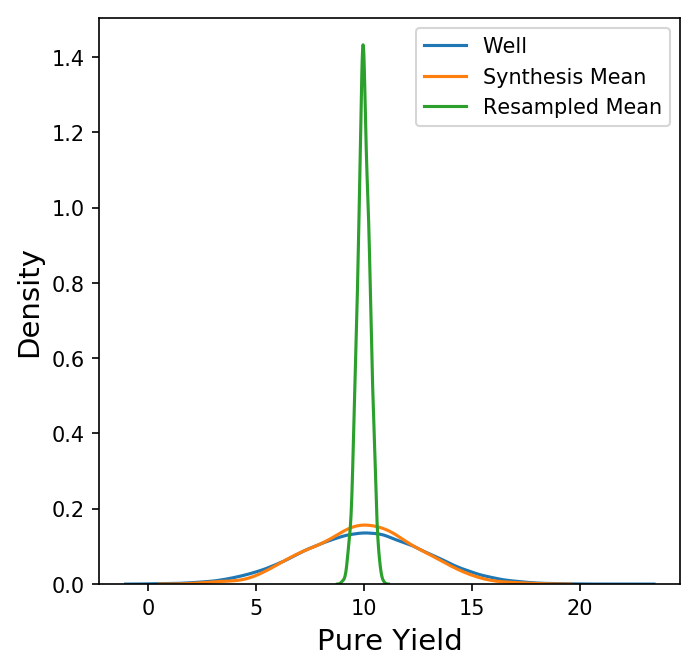
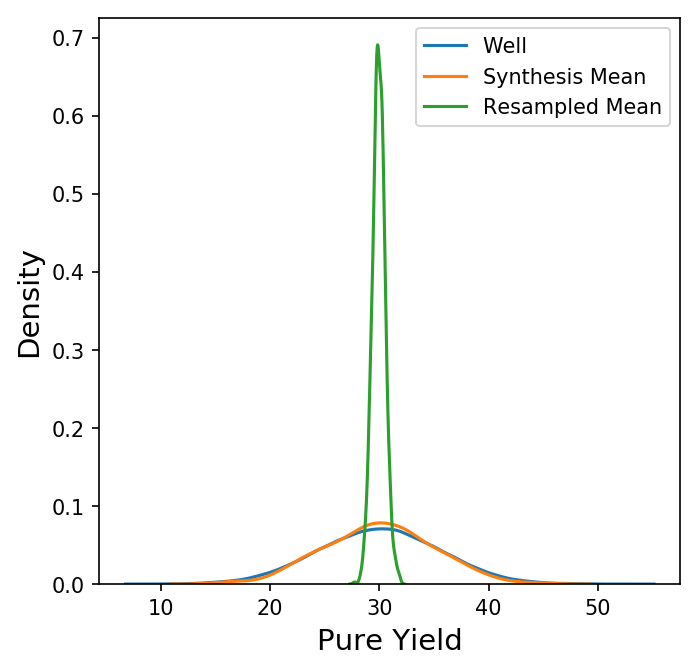
add new post!

diff --git a/content/ExperimentalDesignSampling.md b/content/ExperimentalDesignSampling.md
@@ -1,8 +1,7 @@
 Title: Independence and sampling in experimental design
-Date: 2018-12-26
+Date: 2019-01-02
 Category: Projects
 Authors: Aaron Wiegel
-Status: draft
 
 # Overview
 
@@ -10,7 +9,7 @@ Regardless of the application, calculating a particular statistic and associated
 
 In this blog post, I discuss independence, sampling, and experimental design in the context of my work as a data scientist at Synthego, a biotech manufacturing company. I use a simulated, clean, and simplified data set with features similar to our manufacturing data to demonstrate fundamental statistical concepts and challenges in experimental design. Although the context is chemistry and manufacturing, the core concepts are highly relevant in other contexts, such as designing an A/B testing framework.
 
-The data used in this blog post and the associated code are available via Github.
+The data used in this blog post and the associated code are available via [Github](https://github.com/aawiegel/PowerSimulationDemo).
 
 # Introduction
 
@@ -36,7 +35,7 @@ where the 8 rows correspond to the letters A through H, and the 12 columns corre
 
 ## Data definitions
 
-Synthetic (see what I did there), simplified, and clean data was randomly generated for the purposes of this blog post. Keep in mind that the real data from Synthego's manufacturing process (or from anything else for that matter) will not nearly be as clean or have as clear behavior as this. One thousand syntheses with 96 wells each were simulated to create a 960,000 row data set. The data contains several fields describing the amount and purity of the material and synthesis metadata. In the actual manufacturing process, impurities are measured with mass spectrometry and an algorithm that fits known and unknown impurity mass peaks in a spectrum. Common impurities include sequences with one extra or missing nucleotide (base) or with poor purification or post-processing.
+Synthetic (see what I did there), simplified, and clean data was randomly generated for the purposes of this blog post. Keep in mind that the real data from Synthego's manufacturing process (or from anything else for that matter) will not nearly be as clean or have as clear behavior as this. One thousand syntheses with 96 wells each were simulated to create a 96,000 row data set. The data contains several fields describing the amount and purity of the material and synthesis metadata. In the actual manufacturing process, impurities are measured with mass spectrometry and an algorithm that fits known and unknown impurity mass peaks in a spectrum. Common impurities include sequences with one extra or missing nucleotide (base) or with poor purification or post-processing.
 
 ### Metadata
 
@@ -82,7 +81,7 @@ plt.show()
 
 The distribution for the pure yield is pretty clearly normally distributed from this plot (The fit to the normal distribution almost entirely overlaps with the KDE plot.)
 
-We can use this same code snippet (rewritten as a function in the code on Github) to generate distribution plots for each of our metrics described above:
+We can use this same code snippet (rewritten as a function in the code on [Github](https://github.com/aawiegel/PowerSimulationDemo)) to generate distribution plots for each of our metrics described above:
 
 <img src="{static}/images/well_full_length_product.png" alt="Distribution of the full length product" style="width: 100%;"/>
 
@@ -163,12 +162,12 @@ Why do we see a much narrower distribution for a random sample of 96 wells versu
  
  Therefore, a random sample of 96 wells should have a standard deviation equal to the population standard deviation divided by the square root of 96. Let's compare the standard deviation for the entire population of wells, synthesis means, random sample means, and predictions of the Central Limit Theorem.
  
- | Group             | Mean  | Standard Deviation |
- | ----------------- | ----- | ------------------ |
- | Well (Population) | 9.976 | 2.922              |
- | Synthesis         | 9.976 | 2.513              |
- | Random Sample     | 9.981 | 0.291              |
- | Predicted         | 9.976 | 0.298              |
+ | Group             | Mean   | Standard Deviation |
+ | ----------------- | ------ | ------------------ |
+ | Well (Population) | 29.953 | 5.605              |
+ | Synthesis         | 29.953 | 5.025              |
+ | Random Sample     | 29.944 | 0.582              |
+ | Predicted         | 29.953 | 0.572              |
  
  Clearly, the random sample matches our predictions from the Central Limit Theorem, and the 96 wells on an individual synthesis are not random samples from the larger population of wells. We can see this another way by comparing the means between arbitrary subsets of a synthesis or random sample. In this case, I just compared the mean for wells on the left half of the 96-well plate to the mean for wells on the right half of the 96-well plate for a synthesis or random sample. For 96-well random samples, we see almost no correlation between the means from each side as shown below:
  
@@ -184,6 +183,10 @@ Thus, the wells on a synthesis are not independent units but are actually interd
 
 OK, so what? Sure, the Central Limit Theorem, sampling, independence, and all that are interesting in an abstract sense, but how does this help design better experiments? Well, if we're not careful about randomization in our experimental design, we could end up with spurious results! 
 
+<img src="https://imgs.xkcd.com/comics/significant.png" style="width: 80%" />
+
+One unfortunately common type of bad experimental design. (Credit: [XKCD](https://xkcd.com/882/))
+
 For example, let's suppose we are testing whether some new process change has a positive effect on pure yield. Our null and alternative hypotheses would then be the following:
 
 $H_0: \text{pure yield}_{\text{new}} = \text{pure yield}_{\text{old}}$
@@ -192,10 +195,10 @@ $H_a: \text{pure yield}_{\text{new}} > \text{pure yield}_{\text{old}}$
 
 We then run a single control synthesis with our old process and a single treatment synthesis with our new process and get the following results:
 
-| Synthesis ID | Experimental Group | Mean   | Standard Deviation |
-| ------------ | ------------------ | ------ | ------------------ |
-| 3            | Control            | 8.211  | 1.399              |
-| 4            | Treatment          | 13.314 | 1.554              |
+| Synthesis ID | Experimental Group | Mean    | Standard Deviation |
+| ------------ | ------------------ | ------- | ------------------ |
+| 3            | Control            | 26.431  | 2.331              |
+| 4            | Treatment          | 36.597  | 2.590              |
 
 Looks promising, right? We then naively assume that each well is independent and that a synthesis is a random sample of 96 wells. We perform a _t_-test with our experimental results and those assumptions as shown below:
 ```python
@@ -207,23 +210,23 @@ treatment_mask = df.synthesis_id == 4
 t_test_results = scipy.stats.ttest_ind(df.loc[treatment_mask, 'pure_yield'], 
                                        df.loc[control_mask, 'pure_yield']) 
 print(t_test_results)
-# Output: Ttest_indResult(statistic=21.579125882009635, pvalue=5.402301203063555e-53) 
+# Output: Ttest_indResult(statistic=28.581, pvalue=1.014e-70) 
 ``` 
  
-Whoa, our _t_-statistic is 23.9 with a _p_-value of $3 \times 10^{-59}$; we should definitely reject the null hypothesis. Clearly, our new process change is amazing, and we're super geniuses for thinking of it. Is that really true, though?
+Whoa, our _t_-statistic is 28.6 with a _p_-value of $1 \times 10^{-70}$; we should definitely reject the null hypothesis. Clearly, our new process change is amazing, and we're super geniuses for thinking of it. Is that really true, though?
 
 Unfortunately, one of the key assumptions of the _t_ test is that the samples have been randomly drawn from the larger population. As we discussed earlier, a synthesis is not a random sample of 96 wells, though! So, our new process change might be amazing, but we don't have enough evidence of that yet. (Whether we're super geniuses also remains to be seen.) Realizing this, we perform several more syntheses to test our new process change:
 
 | Synthesis ID | Experimental Group | Mean   | Standard Deviation |
 | ------------ | ------------------ | ------ | ------------------ |
-| 3            | Control            | 8.211  | 1.399              |
-| 4            | Treatment          | 13.314 | 1.554              |
-| 5            | Control            | 6.607  | 1.603              |
-| 6            | Treatment          | 8.603  | 1.571              |
-| 7            | Control            | 11.220 | 1.255              |
-| 8            | Treatment          | 9.755  | 1.465              |
-| 9            | Control            | 14.086 | 1.485              |
-| 10           | Treatment          | 10.249 | 1.545              |
+| 3            | Control            | 26.431 | 2.331              |
+| 4            | Treatment          | 36.597 | 2.590              |
+| 5            | Control            | 23.218 | 2.671              |
+| 6            | Treatment          | 27.248 | 2.619              |
+| 7            | Control            | 32.588 | 2.091              |
+| 8            | Treatment          | 29.525 | 2.442              |
+| 9            | Control            | 38.142 | 2.475              |
+| 10           | Treatment          | 30.541 | 2.576              |
 
 We then run our _t_-test again, this time using the synthesis mean instead of the data from all 96 wells.
 
@@ -235,7 +238,7 @@ t_test_results = scipy.stats.ttest_ind(synthesis_df.loc[treatment_mask, 'pure_yi
                                        synthesis_df.loc[control_mask, 'pure_yield'])
 
 print(t_test_results)
-# Output: Ttest_indResult(statistic=0.23432685490410793, pvalue=0.8225225687422346)
+# Output: Ttest_indResult(statistic=0.228, pvalue=0.827)
 ```
  
 After correctly applying the _t_ test using appropriate assumptions, we find that we actually do not have enough evidence to reject the null hypothesis. Unfortunately, our new process is not nearly as amazing as we might have thought. (We still might be super geniuses, though.) Of course, we could be seeing a false negative since we may not done enough experiments yet, but that is a subject for another blog post. Either way, had we rushed into running a statistical test without thinking through the underlying assumptions, we could have made erroneous business or scientific recommendations that could have disasterous consequences! (Money lost, papers retracted, or worse)
